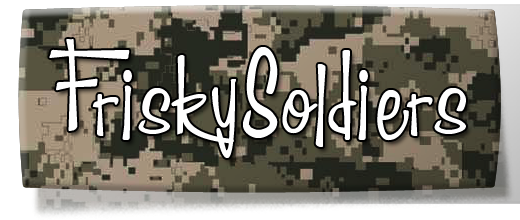
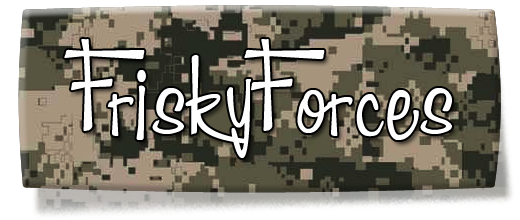
Added friskyforces art work. Standardized ticket graphic

Changed region(s): [[0.0923, 0.0, 1.0, 0.9273]]

diff --git a/public/stylesheets/friskyforces/waves/roll_call.css b/public/stylesheets/friskyforces/waves/roll_call.css
@@ -1,0 +1,22 @@
+html.application .tag-cloud a,
+html.application .tag-cloud a:visited {
+    color: #501508;
+}
+
+html.application .tag-cloud a:hover {
+    color: #CCA;
+    background-color: rgb(80, 21, 8);
+}
+
+html.application .tag-cloud a.current,
+html.application .tag-cloud a.current:hover {
+    color: #CCA;
+    background-color: rgb(140, 55, 44);
+}
+
+html.application .tag-cloud a.current,
+html.application .tag-cloud a:visited.current {
+	-webkit-box-shadow: 0px 0px 4px 2px rgba(255, 248, 220, 0.5);
+	-moz-box-shadow: 0px 0px 4px 2px rgba(255, 248, 220, 0.5);
+	box-shadow: 0px 0px 4px 2px rgba(255, 248, 220, 0.5);
+}

diff --git a/public/stylesheets/friskyforces/waves/community.css b/public/stylesheets/friskyforces/waves/community.css
@@ -1,0 +1,10 @@
+html.application .wave_community .loading {
+    color: #CCA;
+    background-color: rgb(140, 55, 44);	
+}
+
+html.application .wave_community .loading {
+	-webkit-box-shadow: 0px 0px 4px 2px rgba(255, 248, 220, 0.5);
+	-moz-box-shadow: 0px 0px 4px 2px rgba(255, 248, 220, 0.5);
+	box-shadow: 0px 0px 4px 2px rgba(255, 248, 220, 0.5);	
+}
